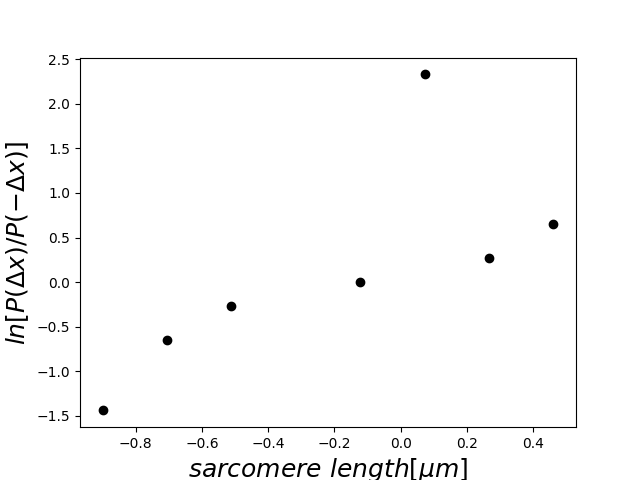
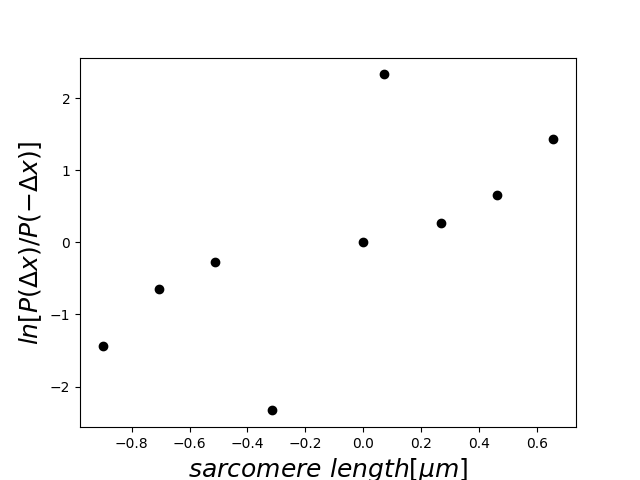
n0520

diff --git a/Fac_Fmy/var_1_n-1/experiment/lngraph.py b/Fac_Fmy/var_1_n-1/experiment/lngraph.py
@@ -5,18 +5,18 @@ import math
 
 df = np.loadtxt('sarcomerelength.dat')
 df1 = df.round(1) - 1.12
-num = 18
+num = 34
 
-a, b, _ = plt.hist(df1, bins=num, range=(-0.9,2.6), density=True)
+a, b, _ = plt.hist(df1, bins=num, range=(-0.75,2.65), density=True)
 plt.close()
 #print(a)
 aa = []
 bb = []
 
 step0=0
-for i in range(0, 3):
-    if not a[i] == 0 and not a[i+8-step0] == 0:
-        a_hi = math.log(a[i]/a[i+8-step0])
+for i in range(0, 7):
+    if not a[i] == 0 and not a[i+14-step0] == 0:
+        a_hi = math.log(a[i]/a[i+14-step0])
         aa.append(a_hi)
         bb.append(b[i])
     step0+=2
@@ -25,10 +25,10 @@ for i in range(0, 3):
 
 a_hi = 0
 aa.append(a_hi)
-bb.append(b[4])
+bb.append(0)
 
 step=2
-for i in range(5, 8):
+for i in range(8, 15):
     if not a[i] == 0 and not a[i-step] == 0: 
         a_hi = math.log(a[i]/a[i-step])
         aa.append(a_hi)
@@ -52,5 +52,5 @@ fig, ax = plt.subplots(1, 1)
 ax.plot(bb, aa, 'o', c='black')
 plt.xlabel(r"$sarcomere\ length[\mu m]$", fontsize = 18)
 plt.ylabel(r"$ln[P( \Delta x) / P(- \Delta x)]$", fontsize = 18)
-fig.savefig("lnp_range_ln_st02_round1_bins18")
+fig.savefig("lnp_range_ln_st02_round1_bins34")
 plt.show()
